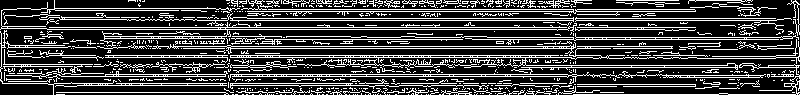
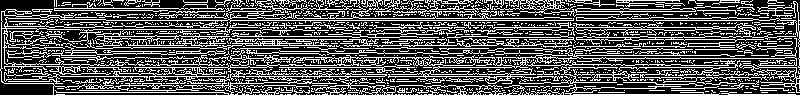
binarization based on histogram image

diff --git a/main.cpp b/main.cpp
@@ -13,14 +13,19 @@ int top_slider = 10;
 int top_slider_max = 200;
 char TrackbarName[50];
 
+// Saves the rectangle points in a txt file
 void savePoints(Point *points, int number, char *path) {
     FileHelper helper;
         // Saves the name of the arquive
     char c = '\0', name[100];
+    int secondPoint = 0;
     uint8_t count = 0;
 
-    while ((c != '.') && (count < 100)) {
+    while ((secondPoint < 2) && (count < 100)) {
         c = path[count];
+        if (c == '.') {
+            secondPoint++;
+        }
         name[count++] = c;
     }
 
@@ -28,17 +33,18 @@ void savePoints(Point *points, int number, char *path) {
     name[count++] = 't';
     name[count++] = 'x';
     name[count++] = 't';
-    
+
     helper.saveFile(points, number, name);
 }
 
+// Trackbar for Canny border algorithm
 void on_trackbar_canny(int, void*) {
     Canny(image, border, top_slider, 3 * top_slider);
     imshow("canny", border);
 }
 
 // Histogram Equalization Function
-Mat plotHistogram(cv::Mat image) {
+Mat histogramEqualize(cv::Mat image) {
     // Equalize histogram
     Mat hist_equalized_image;
     equalizeHist(image, hist_equalized_image);
@@ -50,62 +56,110 @@ Mat plotHistogram(cv::Mat image) {
     return hist_equalized_image;
 }
 
+Mat plotHistogram(const Mat &image) {
+    int histSize = 256;
+    float range[] = {0,256};
+    const float *histRange[] = {range};
+
+    bool uniform = true, accumulate = false;
+
+    Mat grayHistogram;
+    calcHist(&image, 1, 0, Mat(), grayHistogram, 1, &histSize, histRange, uniform, accumulate);
+
+    int histWidth = 512, histHeight = 400;
+    int binWidth = cvRound((double) histWidth / histSize);
+
+    Mat histImage(histHeight, histWidth, CV_8UC3, Scalar(0,0,0));
+
+    normalize(grayHistogram, grayHistogram, 0, histImage.rows, NORM_MINMAX, -1, Mat());
+
+    for (int i = 1; i < histSize; i++) {
+
+        line(histImage, Point(binWidth*(i - 1), histHeight - cvRound(grayHistogram.at<float>(i - 1)))
+                ,Point(binWidth*(i), histHeight - cvRound(grayHistogram.at<float>(i)) )
+                ,Scalar(255, 0, 0), 2, 8, 0);
+    }
+
+    imshow("histogram calculated", histImage);
+
+    return grayHistogram;
+}
+
+Mat dilateImage(const Mat &image) {
+
+    int dilation_type = MORPH_RECT;
+    int dilation_size = 3;
+    Mat dilation_dst;
+
+    Mat element = getStructuringElement( 
+            dilation_type,
+            Size( 2*dilation_size + 1, 2*dilation_size+1 ),
+            Point( dilation_size, dilation_size ) );
+
+  dilate( image, dilation_dst, element );
+
+  imshow( "Dilation Demo", dilation_dst );
+  return dilation_dst;
+}
+
+//***********************************************************************
+/////////MAIN
+//***********************************************************************
+
 int main(int argc, char** argv) {
 
     Point rectangleCorners[4] = {{10,0}, {20,0}, {10,200}, {20,200}};
-
     // Reads an image from arquive
     image = cv::imread(argv[1],cv::IMREAD_GRAYSCALE);
 
     if (image.empty()) {
-        return 1;
+        return EXIT_FAILURE;
     }
 
     savePoints(rectangleCorners, 4, argv[1]);
+    imshow("image", image);
 
-    cv::imshow("image", image);
+    Mat hist = plotHistogram(image);
 
-    sprintf( TrackbarName, "Threshold inferior", top_slider_max);
 
-    namedWindow("canny",1);
+    float great = 0.0;
+    int index = 0;
 
-    createTrackbar( TrackbarName, 
-                "canny",
-                &top_slider,
-                top_slider_max,
-                on_trackbar_canny);
-
-    on_trackbar_canny(top_slider, &top_slider);
-
-    imwrite("cannyborders.png", border);
-
-    imshow("Canny", border);
-
-    //Storing the histogram
-    Mat histogram;
-    histogram = Mat::zeros(1, 256, CV_8U);
-
-    for (int i = 0; i < image.rows; i++) {
-        for (int j = 0; j < image.cols; j++) {
-            uchar pixelValue = image.at<uchar>(i,j);
-            // Incrementa a quantidade daquela posição
-            histogram.at<uchar>(1, pixelValue) += 1;
+    for (int j = 0; j < hist.rows; j++) {
+        cout << "(" << j << "," << 0 << ") = " << hist.at<float>(j,0) << endl;
+        if (great < hist.at<float>(j,0)) {
+            great = hist.at<float>(j,0);
+            index = j;
         }
     }
 
-    //Calculando a média ponderada dos pixels pelo histograma
-    int sum = 0;
-    int index = 0;
-    for (int i = 0; i < histogram.cols; i++) {
-        if (sum < histogram.at<uchar>(0,i)) {
-            sum = histogram.at<uchar>(0,i);
-            index = i;
-        }
+    cout << "index: " << index << endl;
+    cout << "maior: " << great << endl;
+
+    //sprintf( TrackbarName, "Threshold inferior", top_slider_max);
+
+    //namedWindow("canny",1);
+
+    //createTrackbar( TrackbarName, 
+      //          "canny",
+        //        &top_slider,
+          //      top_slider_max,
+            //    on_trackbar_canny);
+
+    //on_trackbar_canny(top_slider, &top_slider);
+
+    //imshow("Canny", border);
+
+    if (index == 255) {
+        index -= 100;
+    }else {
+        int dist = (255 - index) / 3;
+        index += dist;
     }
 
     // Making Image binary
     for (int i = 0; i < image.rows; i++) {
-        for (int j = 0; j < border.cols ; j++) {
+        for (int j = 0; j < image.cols ; j++) {
             uchar value = 0;
             value = image.at<uchar>(i,j);
 
@@ -118,6 +172,11 @@ int main(int argc, char** argv) {
     }
 
     imshow("Binarization", image);
+
+    image = dilateImage(image);
+
+    //border = dilateImage(border);
+
     waitKey();
 
     return 0;
